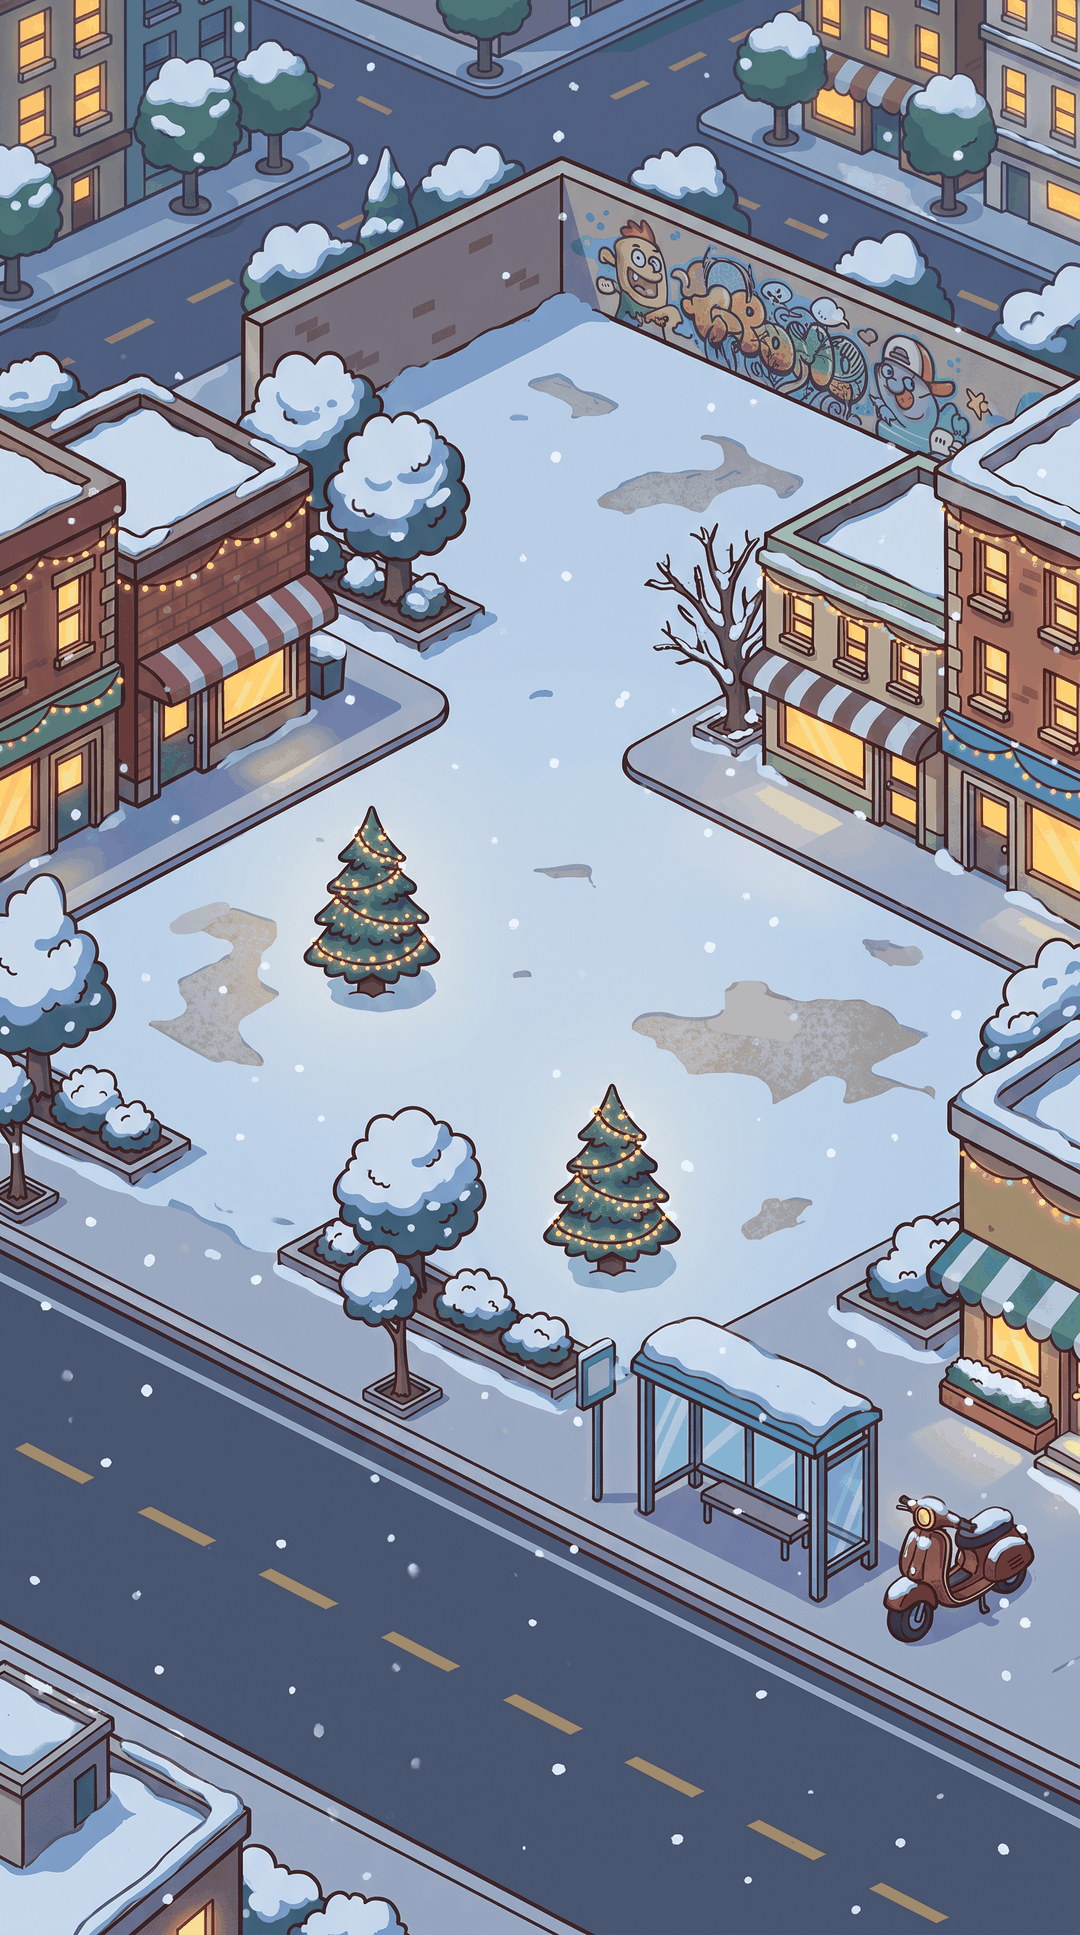
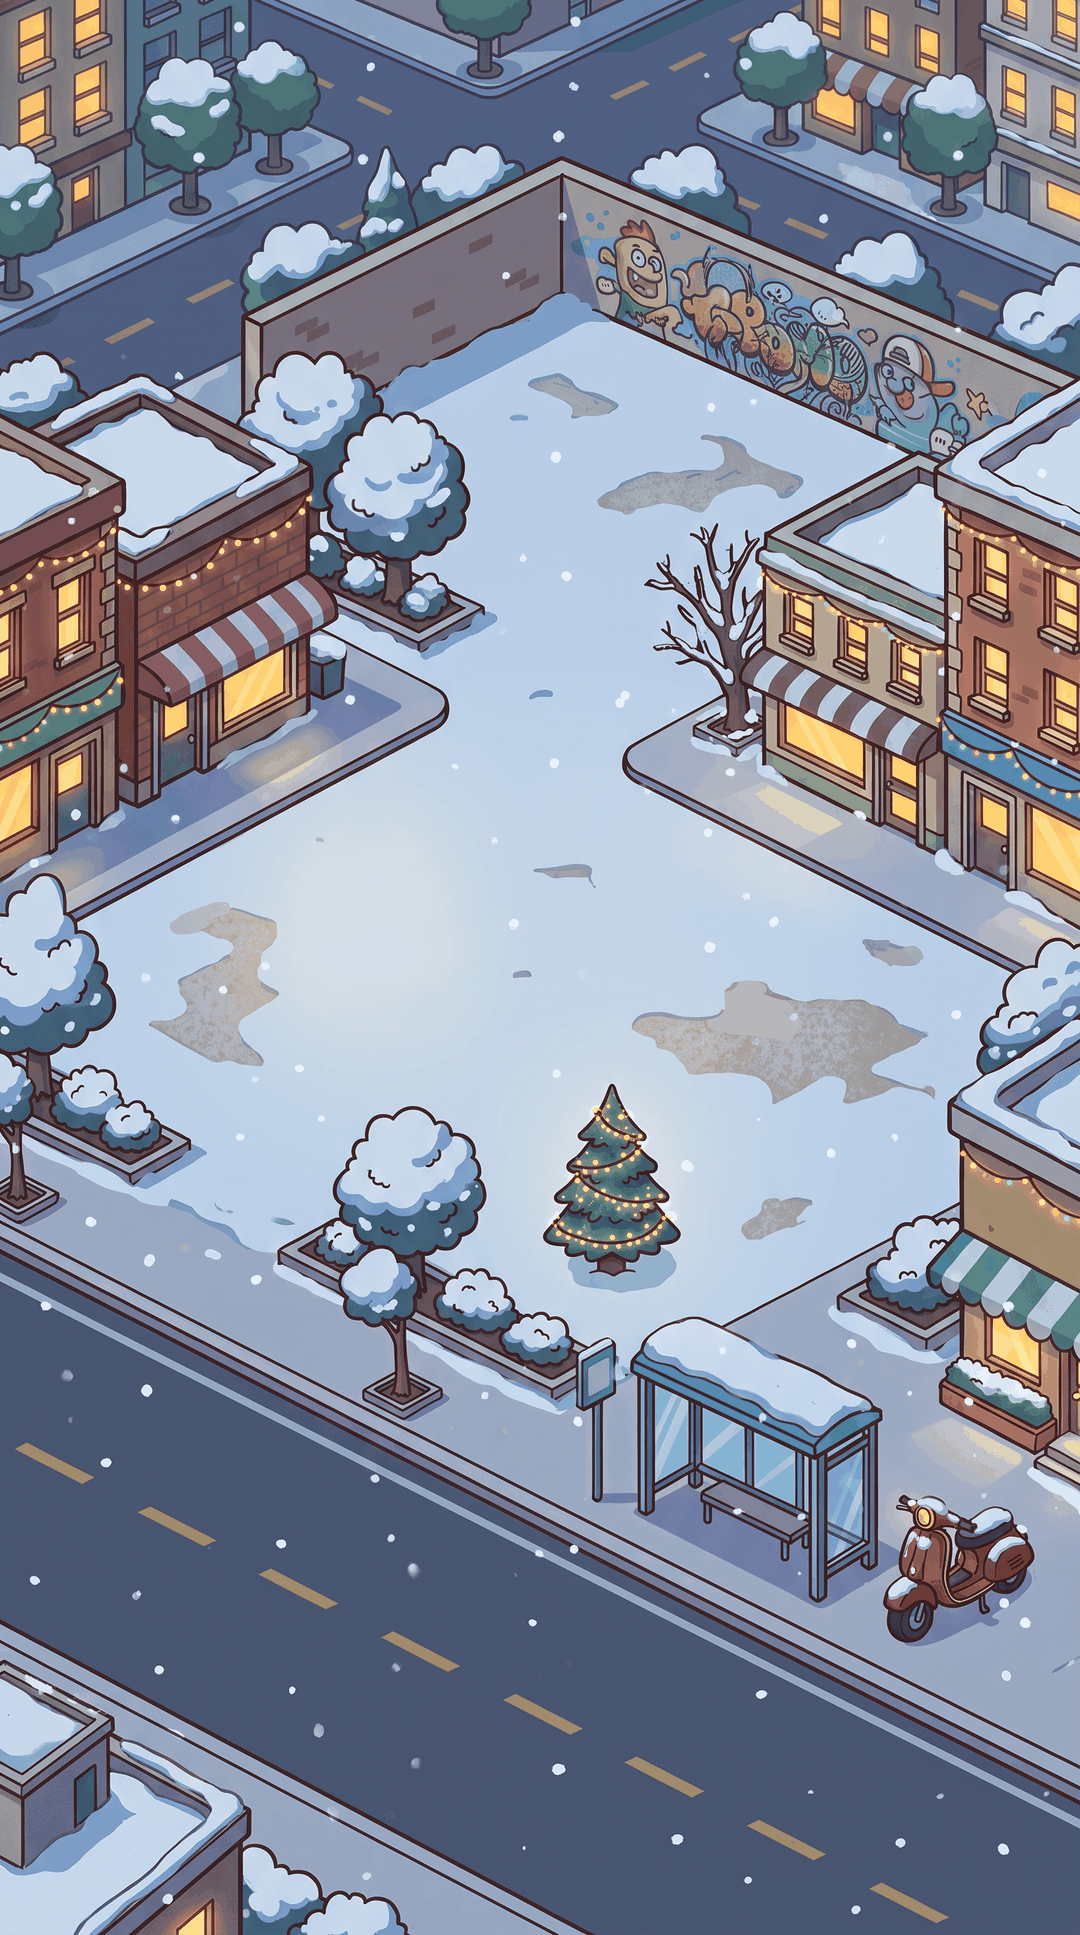
Ville en hiver : sapin retiré sous l'immeuble

Changed region(s): [[0.275, 0.4031, 0.3972, 0.5271], [0.9167, 0.6822, 0.9472, 0.7132]]

diff --git a/js/assets.js b/js/assets.js
@@ -1,3 +1,3 @@
 /* généré par tools/manifest.py */
 window.ASSETS = ["ach-aga100", "ach-agr3", "ach-bets50", "ach-bets500", "ach-boo50", "ach-car1", "ach-car7", "ach-cards30", "ach-cards60", "ach-club10", "ach-combi20", "ach-combi3", "ach-cool50", "ach-cr10", "ach-crp25", "ach-dance30", "ach-deal10", "ach-deal50", "ach-decos5", "ach-first-bet", "ach-garage3", "ach-gold5", "ach-hodl", "ach-jackpot", "ach-look2", "ach-lvl10", "ach-lvl20", "ach-mine10", "ach-mine200", "ach-prop1", "ach-prop4", "ach-quests5", "ach-resell25", "ach-rigmax", "ach-roul50", "ach-roul500", "ach-scr50", "ach-scr500", "ach-ser1", "ach-ser5", "ach-skin3", "ach-slots4", "ach-sneak5", "ach-spin100", "ach-spin1000", "ach-stk10", "ach-stock50", "ach-streak7", "ach-tip20", "ach-w100k", "ach-w10k", "ach-w1m", "ach-watch3", "ach-win10", "ach-win100", "ach-win500", "act-collab", "act-live", "act-rest", "act-shoot", "act-trip", "app-agence", "app-bank", "app-bets", "app-binder", "app-boosters", "app-crypto", "app-immo", "app-infos", "app-missions", "app-msg", "app-objets", "app-settings", "art-c-signed", "art-coach-foot", "art-coach-tennis", "art-fan-ultra", "art-k-b1", "art-k-b10", "art-k-b11", "art-k-b12", "art-k-b2", "art-k-b3", "art-k-b4", "art-k-b5", "art-k-b6", "art-k-b7", "art-k-b8", "art-k-b9", "art-k-f1", "art-k-f10", "art-k-f11", "art-k-f12", "art-k-f13", "art-k-f14", "art-k-f15", "art-k-f16", "art-k-f17", "art-k-f18", "art-k-f19", "art-k-f2", "art-k-f20", "art-k-f21", "art-k-f22", "art-k-f23", "art-k-f24", "art-k-f3", "art-k-f4", "art-k-f5", "art-k-f6", "art-k-f7", "art-k-f8", "art-k-f9", "art-k-t1", "art-k-t10", "art-k-t11", "art-k-t12", "art-k-t2", "art-k-t3", "art-k-t4", "art-k-t5", "art-k-t6", "art-k-t7", "art-k-t8", "art-k-t9", "art-mascot", "art-ref-foot", "badge-xe", "bed-laptop-f", "bed-laptop-m", "bg-city", "bg-city-hiver", "bg-city-neon", "bg-city-renov", "bld-appart", "bld-appart-hiver", "bld-appart-neon", "bld-appart-renov", "bld-balto", "bld-balto-hiver", "bld-balto-neon", "bld-balto-renov", "bld-bijou", "bld-casino", "bld-casino-hiver", "bld-casino-neon", "bld-casino-renov", "bld-club", "bld-club-hiver", "bld-club-renov", "bld-garage", "bld-kiosque", "bld-kiosque-hiver", "bld-kiosque-neon", "bld-kiosque-renov", "bld-parking", "bld-shop", "bld-shop-hiver", "bld-shop-neon", "bld-shop-renov", "bld-six", "bld-six-hiver", "bld-six-neon", "bld-six-off", "bld-six-renov", "bld-tour", "bonus-airdrop", "bonus-cash", "bonus-freebet", "bonus-lingots", "bonus-ticket", "bonus-xp", "booster-pack", "btn-momo", "btn-setup", "btn-upgrade", "card-back", "card-back-crea", "card-bg-basket", "card-bg-foot", "card-bg-rugby", "card-bg-tennis", "casino-machine", "cat-car", "cat-card", "cat-crea", "cat-gem", "cat-gold", "cat-moto", "cat-sneaker", "cat-trophy", "cat-watch", "chip-1", "chip-10", "chip-100", "chip-25", "chip-5", "chip-500", "club-door", "club-room", "coin-btk", "coin-dgk", "coin-eta", "coin-lmn", "coin-ppc", "coin-slr", "cr-eva", "cr-ines", "cr-jade", "cr-kim", "cr-leila", "cr-lola", "cr-mila", "cr-nora", "cr-rose", "cr-sasha", "cred-boss", "cred-caid", "cred-hustler", "cred-magnat", "crest-b1", "crest-b10", "crest-b11", "crest-b12", "crest-b2", "crest-b3", "crest-b4", "crest-b5", "crest-b6", "crest-b7", "crest-b8", "crest-b9", "crest-f1", "crest-f10", "crest-f11", "crest-f12", "crest-f13", "crest-f14", "crest-f15", "crest-f16", "crest-f17", "crest-f18", "crest-f19", "crest-f2", "crest-f20", "crest-f21", "crest-f22", "crest-f23", "crest-f24", "crest-f3", "crest-f4", "crest-f5", "crest-f6", "crest-f7", "crest-f8", "crest-f9", "crest-r1", "crest-r2", "crest-r3", "crest-r4", "crest-r5", "crest-r6", "deco-chaudron", "deco-citrouilles", "deco-dc-arcade", "deco-dc-ball", "deco-dc-bench", "deco-dc-car", "deco-dc-flags", "deco-dc-fountain", "deco-dc-kebab", "deco-dc-lamp", "deco-dc-palm", "deco-dc-posts", "deco-dc-statue", "deco-dc-trophy", "deco-toiles", "deco-tombe", "ev-boost", "ev-cdm-bg", "ev-cdm-board", "ev-cdm-candy", "ev-cdm-chest", "ev-cdm-cup", "ev-rig", "ev-sale", "ev-xp", "frame-cdm", "frame-gold", "frame-six", "full-c-ace", "full-c-ballon", "full-c-dunk", "full-c-essai", "full-c-final", "full-c-goat", "full-c-graded", "full-coach", "full-k-b4", "full-k-f4", "full-k-f8", "full-k-t1", "full-rookie", "fx-smoke", "gear-cam", "gear-cosplay", "gear-gown", "gear-mic", "gear-ring", "gear-spa", "gear-sport", "gear-studio", "gear-travel", "gift-big", "gift-open", "graded-slab", "guide", "hab-club", "hab-drink", "hab-smoke", "hdr-daily", "hdr-levelup", "hdr-missions", "hdr-settings", "ic-ad-reward", "ic-bell", "ic-burn", "ic-bus", "ic-club-bar", "ic-club-dance", "ic-club-dj", "ic-club-door", "ic-club-lounge", "ic-club-vip", "ic-ev-cdm", "ic-fan", "ic-flame", "ic-heat", "ic-info", "ic-pickaxe", "ic-promo", "ic-promo-bf", "ic-promo-halloween", "ic-promo-noel", "ic-rumor", "ic-shelf", "ic-shop-lingots", "ic-shop-ville", "ic-sport-all", "ic-sport-basket", "ic-sport-foot", "ic-sport-tennis", "ic-subs", "ic-target", "ic-truck", "ic-unlock", "ic-up", "ic-videur", "ic-virus", "icon-arrowL", "icon-arrowR", "icon-bolt", "icon-cash", "icon-check", "icon-gear", "icon-gift", "icon-lingot", "icon-lock", "icon-mute", "icon-sound", "icon-star", "icon-treasure", "icon-trophy", "item-c-1st", "item-c-dragon", "item-c-holo", "item-c-psa10", "item-c-signed", "item-cr-betonnard", "item-cr-biscotto", "item-cr-bitumouche", "item-cr-canardo", "item-cr-chenillette", "item-cr-cosmo", "item-cr-crocodalle", "item-cr-electrochat", "item-cr-escargoat", "item-cr-fenekko", "item-cr-flamenkoh", "item-cr-fourmidable", "item-cr-golemneon", "item-cr-gorilleur", "item-cr-grenouf", "item-cr-herissnik", "item-cr-hiboss", "item-cr-kaiju", "item-cr-kebabzor", "item-cr-kraken", "item-cr-licornette", "item-cr-liontours", "item-cr-louperiph", "item-cr-matouz", "item-cr-moustikass", "item-cr-pandagrillz", "item-cr-parrain", "item-cr-phenix", "item-cr-pigeonnard", "item-cr-poubellou", "item-cr-ratchou", "item-cr-requinoir", "item-cr-scarabling", "item-cr-serpentdor", "item-cr-taupecash", "item-cr-tigresko", "item-cr-trotilezard", "item-cr-yetiz", "item-g-comic", "item-g-diam", "item-g-earrings", "item-g-egg", "item-g-emerald", "item-g-pearl", "item-g-roman", "item-g-ruby", "item-g-sapphire", "item-m-cafe", "item-m-chopper", "item-m-cross", "item-m-road", "item-m-scoot", "item-m-sport", "item-m-touring", "item-m-trike", "item-o-bar10", "item-o-bar100", "item-o-chain", "item-o-lion", "item-o-napo", "item-o-nugget", "item-o-ring", "item-p-flat", "item-p-office", "item-p-park", "item-p-studio", "item-s-basket", "item-s-camo", "item-s-chunky", "item-s-collab", "item-s-court", "item-s-gold", "item-s-graff", "item-s-lux", "item-s-moon", "item-s-neon", "item-s-retro", "item-s-runner", "item-s-skate", "item-st-kbc", "item-st-mtr", "item-st-nbk", "item-st-pxl", "item-st-sol", "item-st-stw", "item-t-collect", "item-t-combi", "item-t-first", "item-t-hodl", "item-t-jackpot", "item-v-city", "item-v-electric", "item-v-gti", "item-v-hyper", "item-v-muscle", "item-v-pickup", "item-v-rally", "item-v-super", "item-v-van", "item-w-chrono", "item-w-digital", "item-w-diver", "item-w-field", "item-w-grail", "item-w-iced", "item-w-pilot", "item-w-pocket", "item-w-quartz", "item-w-sq", "item-w-steel", "item-w-tourb", "item-w-unique", "load-1", "load-2", "load-3", "load-4", "load-5", "load-6", "load-7", "load-8", "logo", "minerv-0", "minerv-1", "minerv-2", "minerv-3", "minerv-4", "nav-bets", "nav-city", "nav-home", "nav-shop", "nav-trading", "nav-wallet", "niche-beaute", "niche-bienetre", "niche-cuisine", "niche-danse", "niche-fitness", "niche-gaming", "niche-mode", "niche-musique", "niche-voyage", "pack-collec", "pack-magnat", "pack-noads", "pack-pass", "pack-start", "parking-bg", "pc-0", "pc-1", "pc-2", "pcv-0", "pcv-1", "pcv-2", "pcv-r1", "pcv-r2", "pcv-r3", "pcv-r4", "phone-wall", "pin-demons", "pin-fantomes", "pin-vampires", "pin-zombies", "player-t1", "player-t10", "player-t11", "player-t12", "player-t2", "player-t3", "player-t4", "player-t5", "player-t6", "player-t7", "player-t8", "player-t9", "pop-starter", "rig-0", "rig-1", "rig-2", "rig-3", "rig-4", "rigv-0", "rigv-1", "rigv-2", "rigv-3", "rigv-4", "ringlight", "room-f-0", "room-f-1", "room-f-2", "room-m-0", "room-m-1", "room-m-2", "roulette-felt", "roulette-hub", "shop-hero", "shop-lingot-1", "shop-lingot-2", "shop-lingot-3", "shop-lingot-4", "shop-lingot-5", "shop-lingot-6", "skin-boss", "skin-boss-bust", "skin-doudoune", "skin-doudoune-bust", "skin-flambeur", "skin-flambeur-bust", "skin-gold", "skin-gold-bust", "skin-hoodie", "skin-hoodie-bust", "skin-sportive", "skin-sportive-bust", "skin-survet", "skin-survet-bust", "slot-bar", "slot-bell", "slot-cherry", "slot-diam", "slot-lemon", "slot-seven", "team-demons", "team-fantomes", "team-vampires", "team-zombies", "ticket-flash", "tip-crypto", "tip-market", "tip-sport", "tk-astro", "tk-banco", "tk-black", "tk-flash", "tk-millio", "tk-morpion", "tkbg-astro", "tkbg-banco", "tkbg-black", "tkbg-flash", "tkbg-millio", "tkbg-morpion", "ui-avatar-frame", "ui-badge", "ui-bar-fill", "ui-bar-frame", "ui-btn-blue", "ui-btn-close", "ui-btn-green", "ui-btn-grey", "ui-btn-plus", "ui-btn-purple", "ui-btn-red", "ui-btn-yellow", "ui-card", "ui-casino-frame", "ui-casino-header", "ui-navbtn", "ui-panel", "ui-pill", "ui-ribbon", "ui-tab-off", "ui-tab-on", "ui-tuto-arrow", "wx-bear", "wx-bull", "wx-calm", "wx-fomo", "wx-krach"];
-window.ASSET_V = 1791382395;
+window.ASSET_V = 1791382539;

diff --git a/game.html b/game.html
@@ -148,7 +148,7 @@
   // Chargement du jeu. En local : les fichiers du dossier. Mis à jour depuis internet (index.html) : le code vient
   // de raw.githubusercontent (rapide et toujours à jour), les images du dossier local quand on joue sur son ordi.
   (function () {
-    var V = '?v=365', FILES = ['js/layout.js', 'js/data.js', 'js/content.js', 'js/assets.js', 'js/game.js', 'js/audio.js', 'js/ui.js', 'js/casino.js', 'js/scratch.js', 'js/balto.js', 'js/agence.js', 'js/tuto.js', 'js/online.js', 'js/push.js'].slice(), CSS = 'css/style.css';
+    var V = '?v=366', FILES = ['js/layout.js', 'js/data.js', 'js/content.js', 'js/assets.js', 'js/game.js', 'js/audio.js', 'js/ui.js', 'js/casino.js', 'js/scratch.js', 'js/balto.js', 'js/agence.js', 'js/tuto.js', 'js/online.js', 'js/push.js'].slice(), CSS = 'css/style.css';
     var m = document.baseURI.match(/^https:\/\/cdn\.jsdelivr\.net\/gh\/([^@]+)@([^/]+)\//);
     if (!m) {
       document.write('<link rel="stylesheet" href="' + CSS + V + '">');
